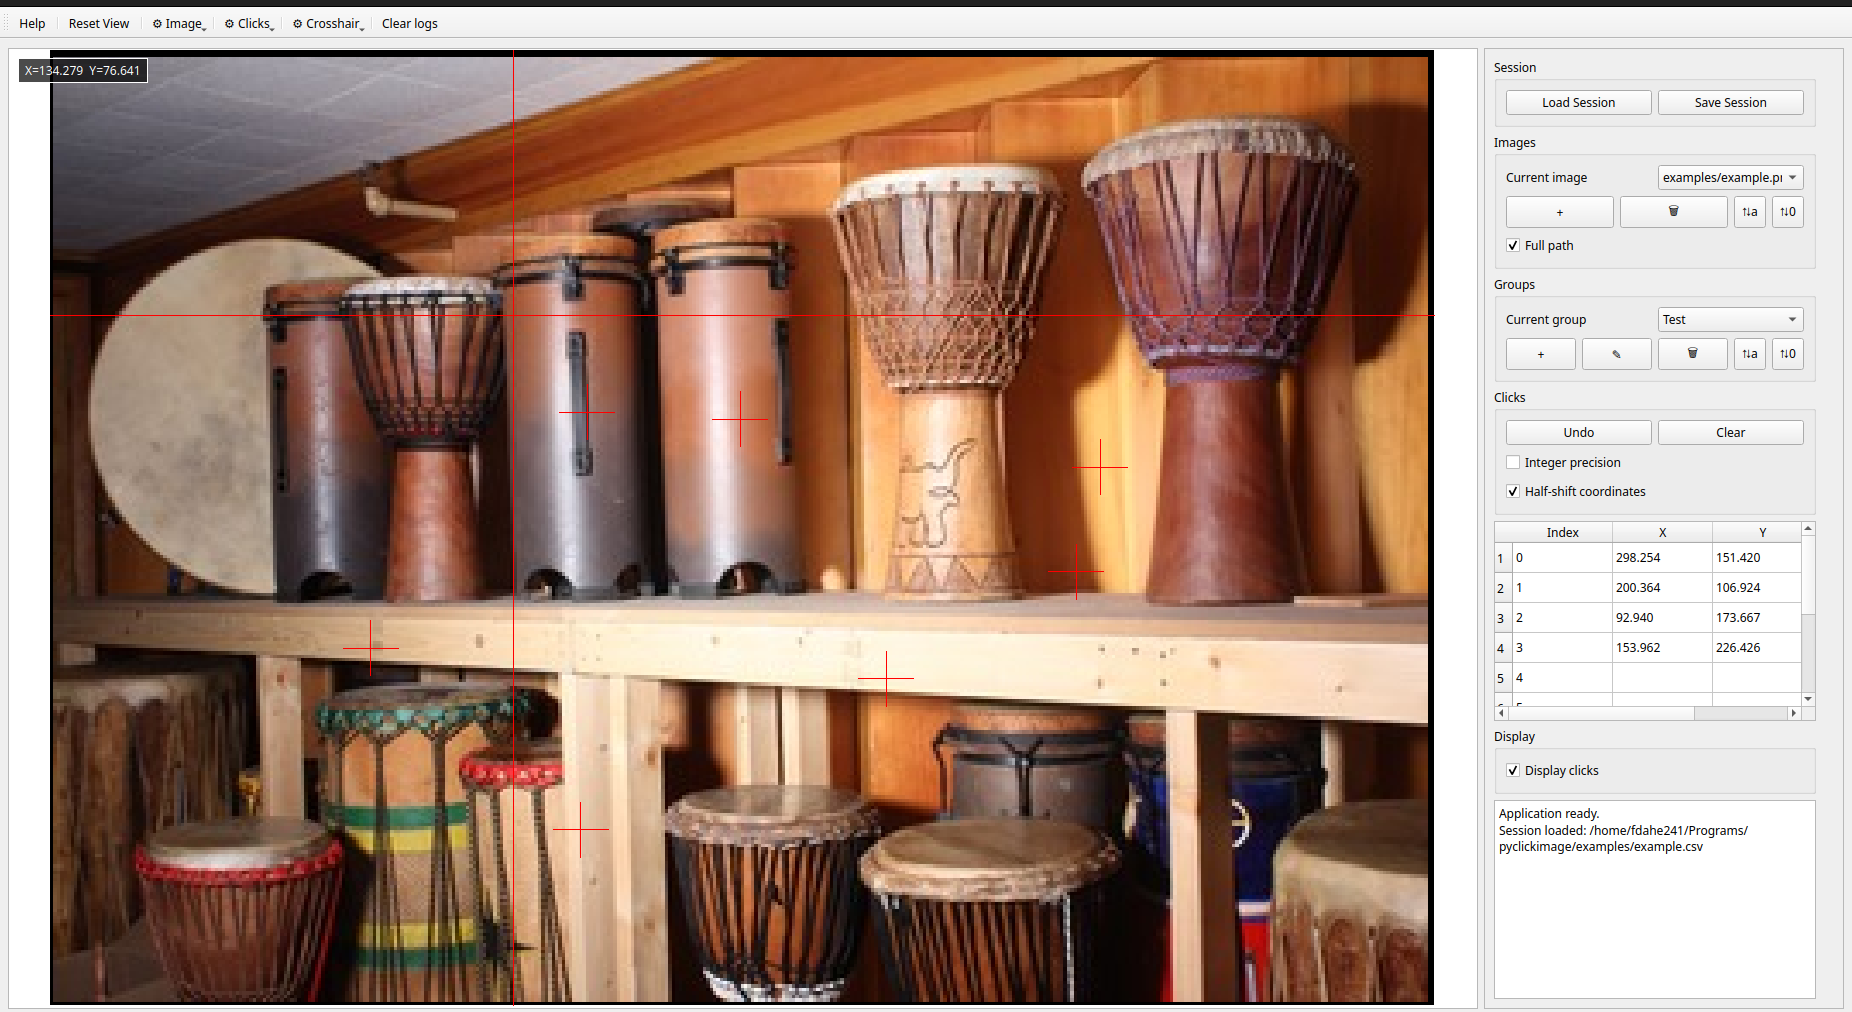
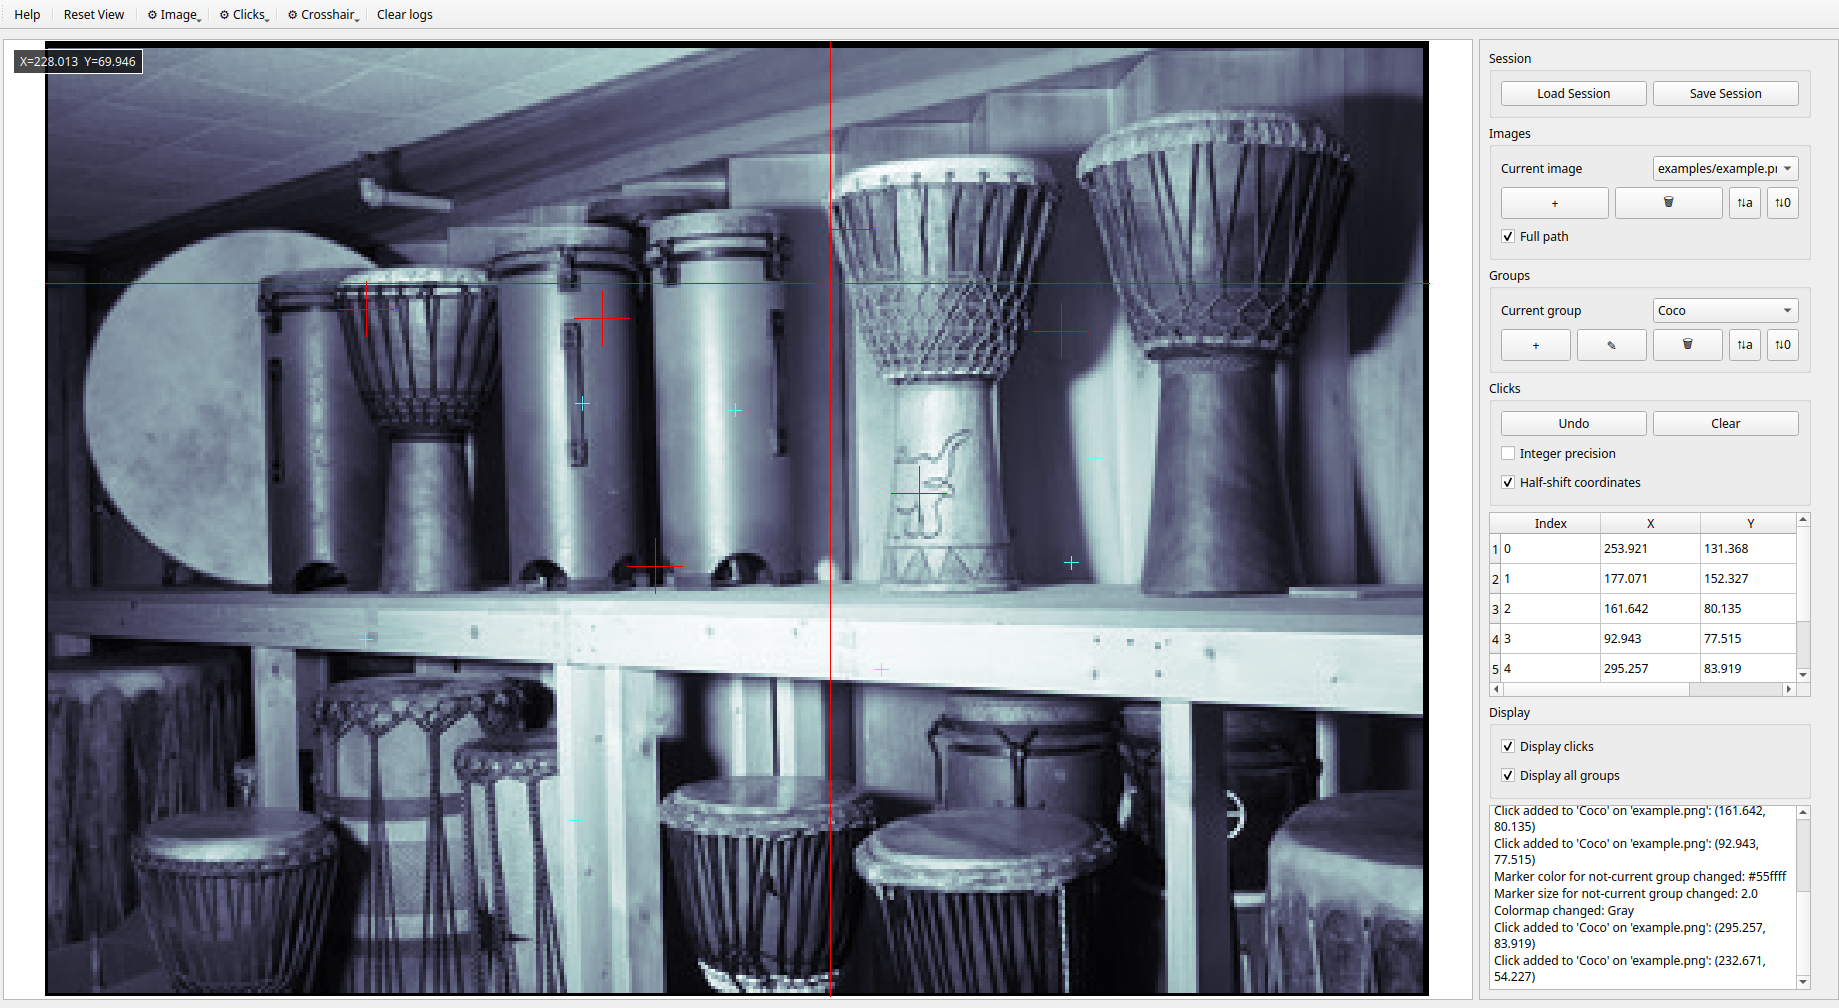
Display Other clicks added and synchro with session for float/int)

diff --git a/pyclickimage/app.py b/pyclickimage/app.py
@@ -120,10 +120,13 @@ class ClickImageApp(QtWidgets.QMainWindow):
         self.display_max_pc = 100
 
         self.show_clicks = True
+        self.show_other_clicks = False
 
         self.marker_color = QtGui.QColor(255, 0, 0)
+        self.other_marker_color = QtGui.QColor(0, 0, 255)
 
         self.marker_size = 8
+        self.other_marker_size = 8
 
         # -------------------------
         # Core components
@@ -207,9 +210,7 @@ class ClickImageApp(QtWidgets.QMainWindow):
 
         if session is not None:
 
-            self.session = AnnotationSession.from_file(
-                session,
-            )
+            self.session = AnnotationSession.from_file(session)
 
         elif images is not None:
 
@@ -240,6 +241,7 @@ class ClickImageApp(QtWidgets.QMainWindow):
 
         self.synchronize_images()
         self.synchronize_groups()
+        self.synchronize_params()
         self.update()
 
     def _init_left_panel(self):
@@ -480,6 +482,13 @@ class ClickImageApp(QtWidgets.QMainWindow):
             self.on_display_clicks_changed
         )
         display_layout.addWidget(self.display_clicks_checkbox)
+
+        self.display_other_clicks_checkbox = QtWidgets.QCheckBox("Display all groups")
+        self.display_other_clicks_checkbox.setChecked(False)
+        self.display_other_clicks_checkbox.stateChanged.connect(
+            self.on_display_other_clicks_changed
+        )
+        display_layout.addWidget(self.display_other_clicks_checkbox)
 
         self.side.addWidget(display_box)
 
@@ -798,17 +807,14 @@ class ClickImageApp(QtWidgets.QMainWindow):
         clicks_menu = QtWidgets.QMenu(self)
 
         clicks_panel = QtWidgets.QWidget()
-        clicks_layout = QtWidgets.QFormLayout(clicks_panel)
+        clicks_layout = QtWidgets.QVBoxLayout(clicks_panel)
 
-        self.display_clicks_checkbox = QtWidgets.QCheckBox("Display clicks")
+        # --------------
+        # CURRENT GROUP CLICKS
+        # --------------
 
-        self.display_clicks_checkbox.setChecked(True)
-
-        self.display_clicks_checkbox.stateChanged.connect(
-            self.on_display_clicks_changed
-        )
-
-        clicks_layout.addRow(self.display_clicks_checkbox)
+        current_group = QtWidgets.QGroupBox("Current group clicks")
+        current_layout = QtWidgets.QFormLayout(current_group)
 
         # Marker color
 
@@ -820,7 +826,6 @@ class ClickImageApp(QtWidgets.QMainWindow):
         self.color_btn.clicked.connect(self.choose_color)
 
         self.color_preview = QtWidgets.QLabel("   ")
-
         self.color_preview.setStyleSheet(
             "background-color: rgb(255,0,0); border: 1px solid black;"
         )
@@ -828,7 +833,10 @@ class ClickImageApp(QtWidgets.QMainWindow):
         marker_layout.addWidget(self.color_btn)
         marker_layout.addWidget(self.color_preview)
 
-        clicks_layout.addRow("Marker", marker_widget)
+        current_layout.addRow(
+            "Marker",
+            marker_widget,
+        )
 
         # Marker size
 
@@ -855,13 +863,84 @@ class ClickImageApp(QtWidgets.QMainWindow):
         )
 
         self.size_selector.setCurrentText("8")
-
         self.size_selector.currentTextChanged.connect(self.on_marker_size_changed)
 
-        clicks_layout.addRow(
+        current_layout.addRow(
             "Size",
             self.size_selector,
         )
+
+        clicks_layout.addWidget(current_group)
+
+        # --------------
+        # OTHER GROUP CLICKS
+        # --------------
+
+        other_group = QtWidgets.QGroupBox("Other group clicks")
+        other_layout = QtWidgets.QFormLayout(other_group)
+
+        # Other marker color
+
+        other_marker_widget = QtWidgets.QWidget()
+        other_marker_layout = QtWidgets.QHBoxLayout(other_marker_widget)
+        other_marker_layout.setContentsMargins(0, 0, 0, 0)
+
+        self.other_color_btn = QtWidgets.QPushButton("Color")
+        self.other_color_btn.clicked.connect(self.choose_other_color)
+
+        self.other_color_preview = QtWidgets.QLabel("   ")
+        self.other_color_preview.setStyleSheet(
+            "background-color: rgb(0,0,255); border: 1px solid black;"
+        )
+
+        other_marker_layout.addWidget(self.other_color_btn)
+        other_marker_layout.addWidget(self.other_color_preview)
+
+        other_layout.addRow(
+            "Marker",
+            other_marker_widget,
+        )
+
+        # Other marker size
+
+        self.other_size_selector = QtWidgets.QComboBox()
+
+        self.other_size_selector.addItems(
+            [
+                "0.2",
+                "0.5",
+                "1",
+                "2",
+                "4",
+                "6",
+                "8",
+                "10",
+                "12",
+                "16",
+                "20",
+                "30",
+                "50",
+                "75",
+                "100",
+            ]
+        )
+
+        self.other_size_selector.setCurrentText("8")
+
+        self.other_size_selector.currentTextChanged.connect(
+            self.on_other_marker_size_changed
+        )
+
+        other_layout.addRow(
+            "Size",
+            self.other_size_selector,
+        )
+
+        clicks_layout.addWidget(other_group)
+
+        # --------------
+        # MENU
+        # --------------
 
         clicks_action = QtWidgets.QWidgetAction(clicks_menu)
         clicks_action.setDefaultWidget(clicks_panel)
@@ -1015,6 +1094,15 @@ class ClickImageApp(QtWidgets.QMainWindow):
             self.session.select_current_group(None)
 
         self.group_selector.blockSignals(False)
+
+    def synchronize_params(self):
+        r"""
+        Synchronize checkbox with current session.
+        """
+
+        self.int_precision_checkbox.blockSignals(True)
+        self.int_precision_checkbox.setChecked(self.session.precision_mode == "int")
+        self.int_precision_checkbox.blockSignals(False)
 
     # ===============================
     # Images management
@@ -1862,6 +1950,23 @@ class ClickImageApp(QtWidgets.QMainWindow):
                     self.marker_size,
                 )
 
+        if self.show_clicks and self.show_other_clicks:
+
+            for group in self.session.groups:
+                if group != self.session.current_group:
+                    pts = self.session.get_clicks(group)
+
+                    for x, y in pts:
+
+                        if x is None or y is None:
+                            continue
+
+                        self.viewer.add_marker(
+                            (x, y),
+                            self.other_marker_color,
+                            self.other_marker_size,
+                        )
+
     def _format_value(self, v):
         r"""
         Format a coordinate for display in the table.
@@ -1985,6 +2090,17 @@ class ClickImageApp(QtWidgets.QMainWindow):
 
         self.update()
 
+    def on_display_other_clicks_changed(self, state: int) -> None:
+        r"""
+        Toggle annotation marker visibility.
+        """
+
+        self.show_other_clicks = state == QtCore.Qt.Checked
+
+        self._append_log(f"Display all clicks: {self.show_other_clicks}")
+
+        self.update()
+
     def crosshair_choose_color(self) -> None:
         r"""
         Change viewer crosshair color.
@@ -2031,6 +2147,29 @@ class ClickImageApp(QtWidgets.QMainWindow):
 
         self.update()
 
+    def choose_other_color(self) -> None:
+        r"""
+        Change annotation marker color.
+        """
+
+        color = QtWidgets.QColorDialog.getColor(
+            self.other_marker_color,
+            self,
+        )
+
+        if not color.isValid():
+            return
+
+        self.other_marker_color = color
+
+        self.other_color_preview.setStyleSheet(
+            f"background-color: {color.name()};" "border: 1px solid black;"
+        )
+
+        self._append_log(f"Marker color for not-current group changed: {color.name()}")
+
+        self.update()
+
     def on_marker_size_changed(self, value: str) -> None:
         r"""
         Update annotation marker size.
@@ -2043,6 +2182,23 @@ class ClickImageApp(QtWidgets.QMainWindow):
             self.marker_size = 8.0
 
         self._append_log(f"Marker size changed: {self.marker_size:.1f}")
+
+        self.update()
+
+    def on_other_marker_size_changed(self, value: str) -> None:
+        r"""
+        Update annotation marker size.
+        """
+
+        try:
+            self.other_marker_size = float(value)
+
+        except ValueError:
+            self.other_marker_size = 8.0
+
+        self._append_log(
+            f"Marker size for not-current group changed: {self.other_marker_size:.1f}"
+        )
 
         self.update()
 

diff --git a/pyclickimage/annotation_session.py b/pyclickimage/annotation_session.py
@@ -934,6 +934,40 @@ class AnnotationSession:
             precision_mode=self.precision_mode,
         )
 
+    def get_clicks(self, group_name: str) -> Group:
+        r"""
+        Return the clicks of the group.
+
+        Parameters
+        ----------
+        group_name : str
+            Group name.
+
+        Returns
+        -------
+        Group
+            Clicks of the current image and selected group.
+
+        Notes
+        -----
+        Returns an empty group if no image is selected.
+        """
+        if not isinstance(group_name, str):
+            raise TypeError("Group name must be a string.")
+
+        if group_name not in self.groups:
+            raise ValueError(f"Group '{group_name}' not exists.")
+
+        manager = self.current_click_manager
+
+        if manager is None:
+            return []
+
+        return manager.extract_group(
+            group_name,
+            precision_mode=self.precision_mode,
+        )
+
     def add_click(
         self,
         x: Number,

diff --git a/pyclickimage/__version__.py b/pyclickimage/__version__.py
@@ -16,4 +16,4 @@ You should have received a copy of the GNU General Public License
 along with this program.  If not, see <https://www.gnu.org/licenses/>.
 """
 
-__version__ = "3.1.0"
+__version__ = "3.2.0"
